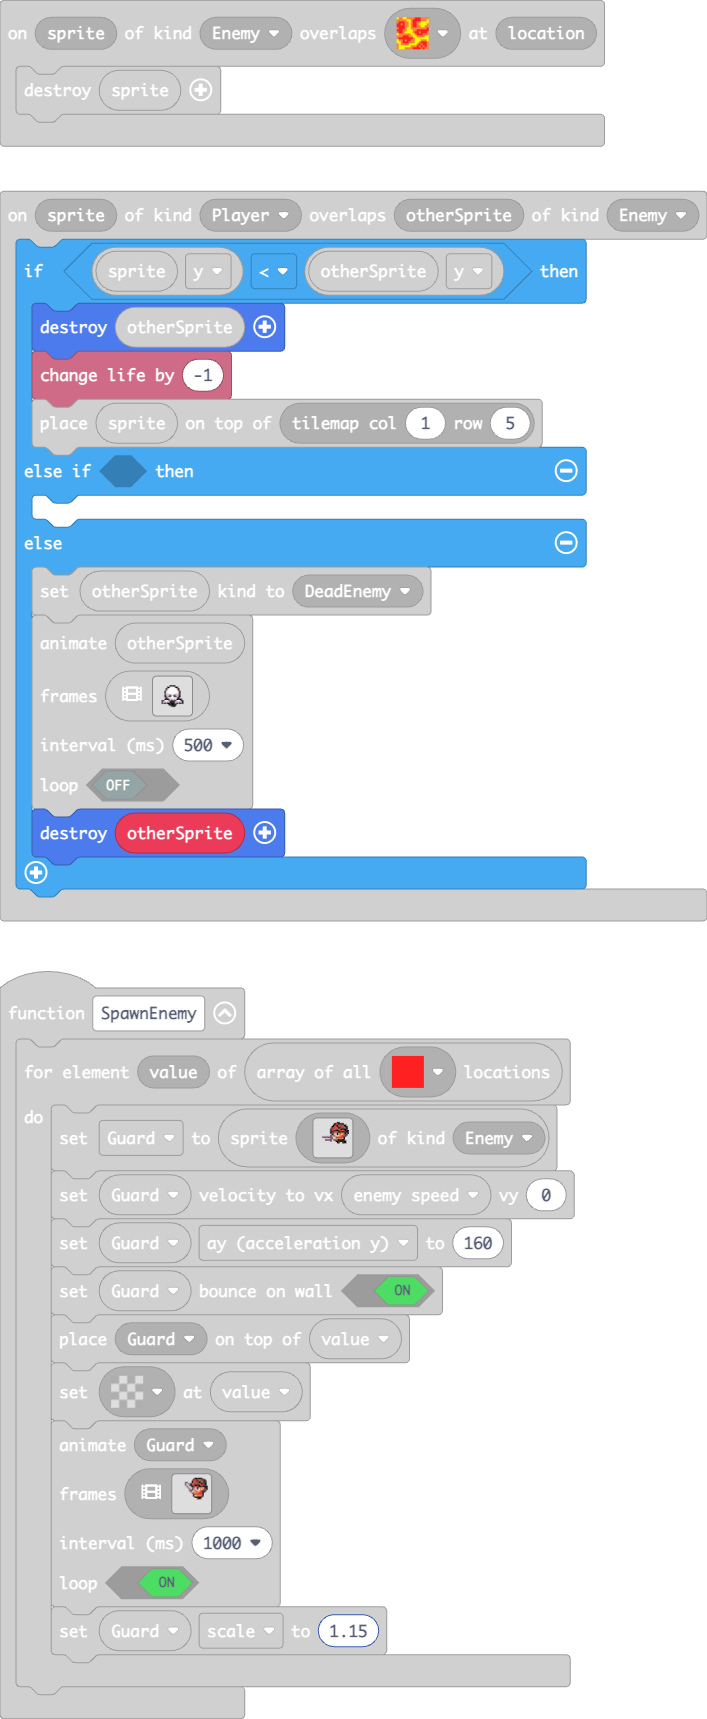
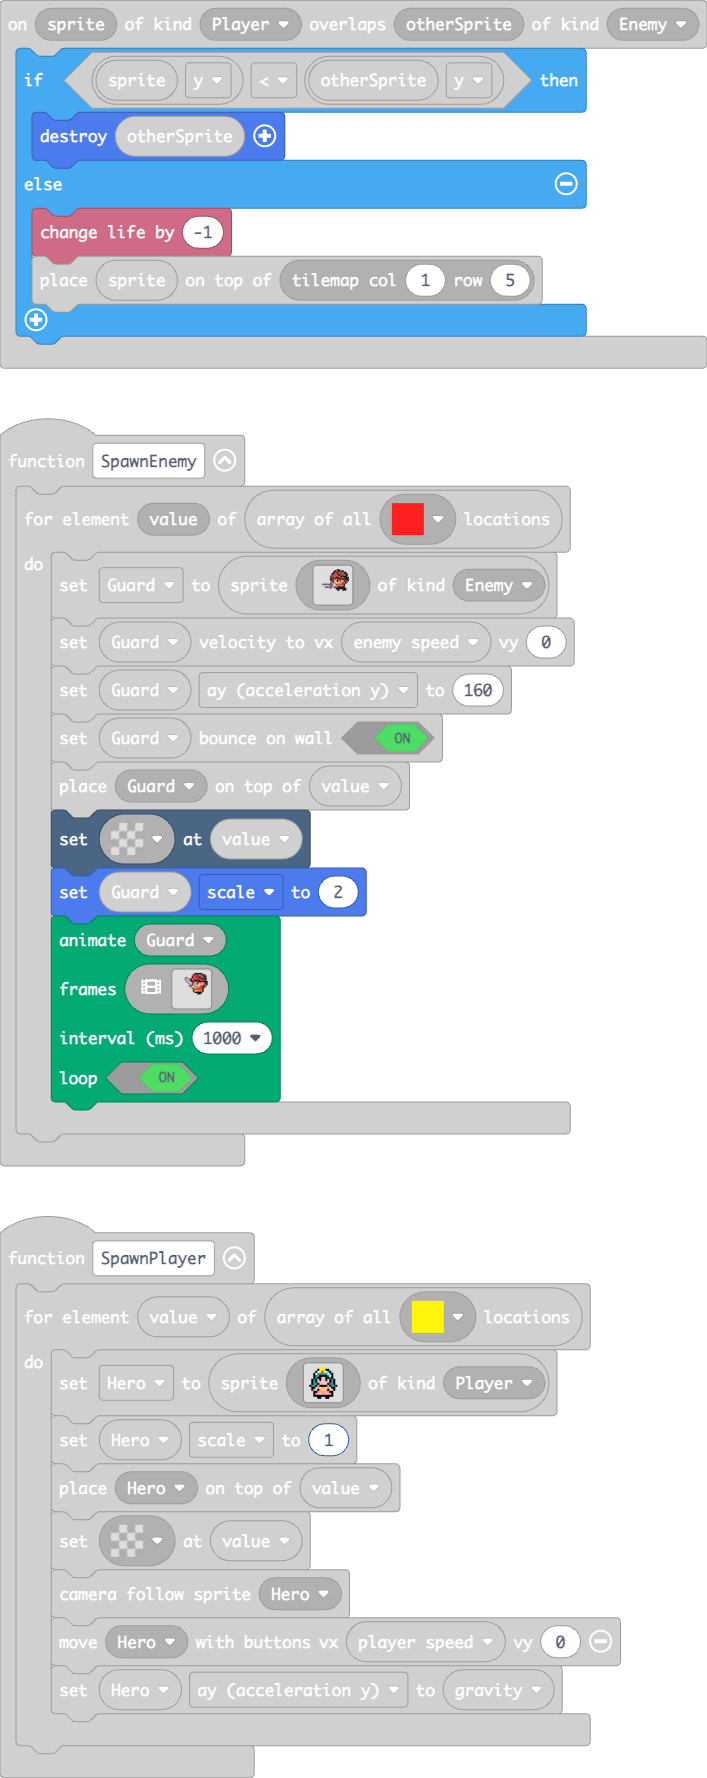
Update main.blocks, main.ts

diff --git a/main.ts b/main.ts
@@ -34,6 +34,7 @@ function SpawnEnemy () {
         Guard.setBounceOnWall(true)
         tiles.placeOnTile(Guard, value)
         tiles.setTileAt(value, assets.tile`transparency16`)
+        Guard.scale = 2
         animation.runImageAnimation(
         Guard,
         [img`
@@ -140,7 +141,6 @@ function SpawnEnemy () {
         1000,
         true
         )
-        Guard.scale = 1.15
     }
 }
 scene.onOverlapTile(SpriteKind.Player, assets.tile`myTile`, function (sprite, location) {
@@ -172,7 +172,7 @@ function SpawnPlayer () {
             . . . f f f f f f f f f f . . . 
             . . . . . f f . . f f . . . . . 
             `, SpriteKind.Player)
-        Hero.scale = 1.15
+        Hero.scale = 1
         tiles.placeOnTile(Hero, value)
         tiles.setTileAt(value, assets.tile`transparency16`)
         scene.cameraFollowSprite(Hero)
@@ -405,119 +405,9 @@ sprites.onOverlap(SpriteKind.Player, SpriteKind.Food, function (sprite, otherSpr
 sprites.onOverlap(SpriteKind.Player, SpriteKind.Enemy, function (sprite, otherSprite) {
     if (sprite.y < otherSprite.y) {
         sprites.destroy(otherSprite)
+    } else {
         info.changeLifeBy(-1)
         tiles.placeOnTile(sprite, tiles.getTileLocation(1, 5))
-    } else if (false) {
-    	
-    } else {
-        otherSprite.setKind(SpriteKind.DeadEnemy)
-        animation.runImageAnimation(
-        otherSprite,
-        [img`
-            ........................
-            ........................
-            ........................
-            ........................
-            ..........ffff..........
-            ........ff1111ff........
-            .......fb111111bf.......
-            .......f11111111f.......
-            ......fd11111111df......
-            ......fd11111111df......
-            ......fddd1111dddf......
-            ......fbdbfddfbdbf......
-            ......fcdcf11fcdcf......
-            .......fb111111bf.......
-            ......fffcdb1bdffff.....
-            ....fc111cbfbfc111cf....
-            ....f1b1b1ffff1b1b1f....
-            ....fbfbffffffbfbfbf....
-            .........ffffff.........
-            ...........fff..........
-            ........................
-            ........................
-            ........................
-            ........................
-            `,img`
-            ........................
-            ........................
-            ........................
-            ........................
-            ..........ffff..........
-            ........ff1111ff........
-            .......fb111111bf.......
-            .......f11111111f.......
-            ......fd11111111df......
-            ......fd11111111df......
-            ......fddd1111dddf......
-            ......fbdbfddfbdbf......
-            ......fcdcf11fcdcf......
-            .......fb111111ffff.....
-            ......fffcdb1bc111cf....
-            ....fc111cbfbf1b1b1f....
-            ....f1b1b1ffffbfbfbf....
-            ....fbfbfffffff.........
-            .........fffff..........
-            ..........fff...........
-            ........................
-            ........................
-            ........................
-            ........................
-            `,img`
-            ........................
-            ........................
-            ........................
-            ........................
-            ..........ffff..........
-            ........ff1111ff........
-            .......fb111111bf.......
-            .......f11111111f.......
-            ......fd11111111df......
-            ......fd11111111df......
-            ......fddd1111dddf......
-            ......fbdbfddfbdbf......
-            ......fcdcf11fcdcf......
-            .......fb111111bf.......
-            ......fffcdb1bdffff.....
-            ....fc111cbfbfc111cf....
-            ....f1b1b1ffff1b1b1f....
-            ....fbfbffffffbfbfbf....
-            .........ffffff.........
-            ...........fff..........
-            ........................
-            ........................
-            ........................
-            ........................
-            `,img`
-            ........................
-            ........................
-            ........................
-            ........................
-            ..........ffff..........
-            ........ff1111ff........
-            .......fb111111bf.......
-            .......f11111111f.......
-            ......fd11111111df......
-            ......fd11111111df......
-            ......fddd1111dddf......
-            ......fbdbfddfbdbf......
-            ......fcdcf11fcdcf......
-            .....ffff111111bf.......
-            ....fc111cdb1bdfff......
-            ....f1b1bcbfbfc111cf....
-            ....fbfbfbffff1b1b1f....
-            .........fffffffbfbf....
-            ..........fffff.........
-            ...........fff..........
-            ........................
-            ........................
-            ........................
-            ........................
-            `],
-        500,
-        false
-        )
-        sprites.destroy(otherSprite)
     }
 })
 let Coins: Sprite = null
